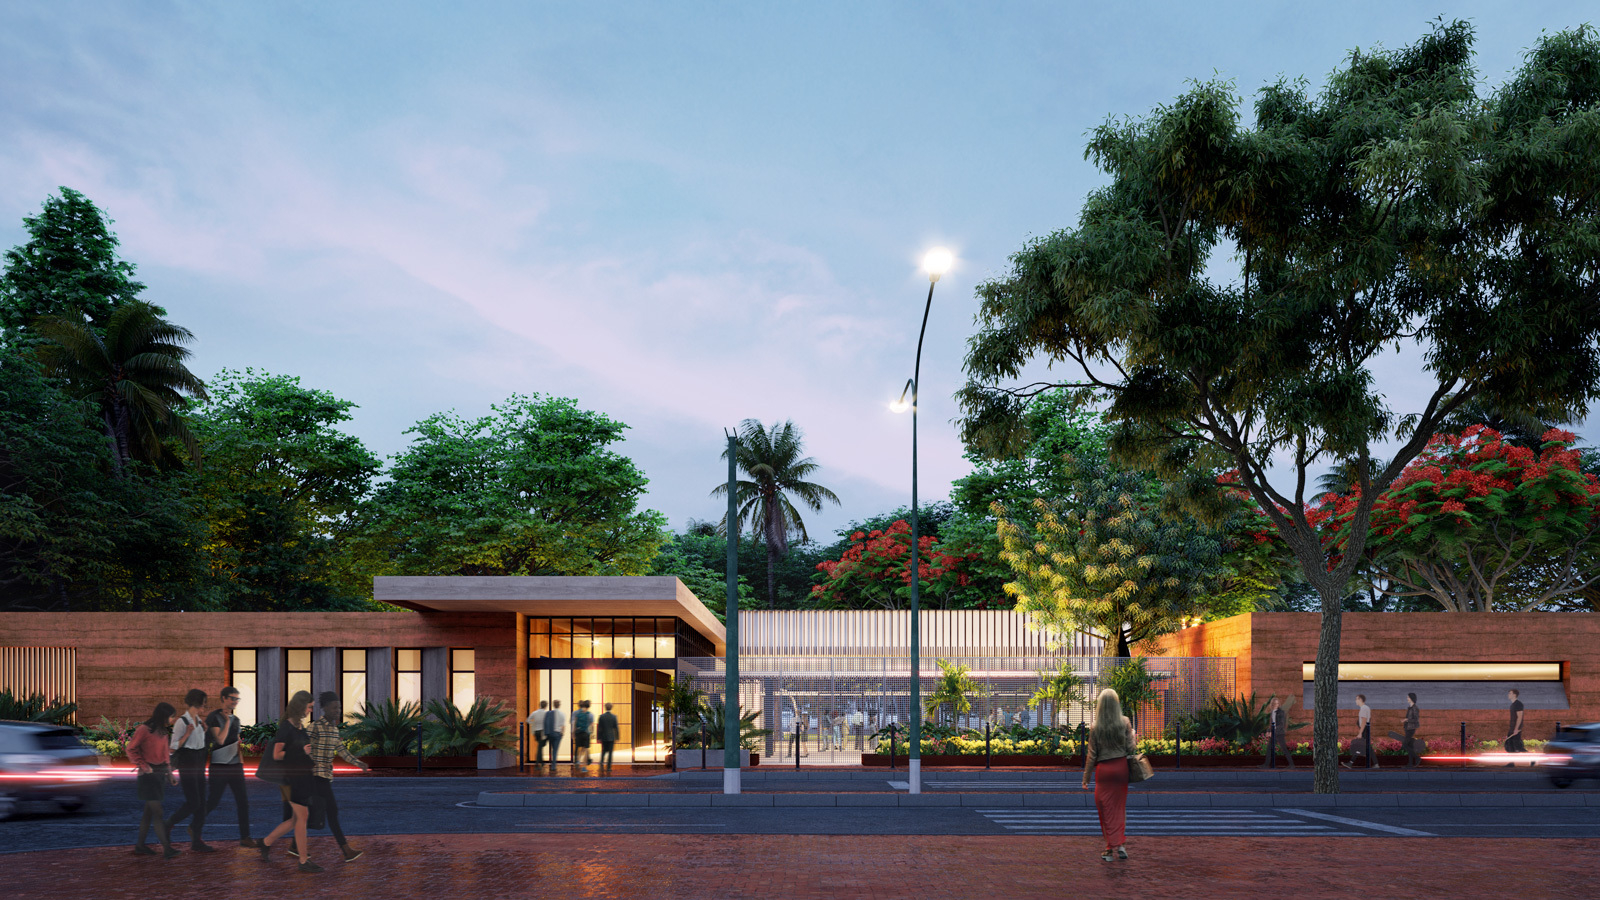
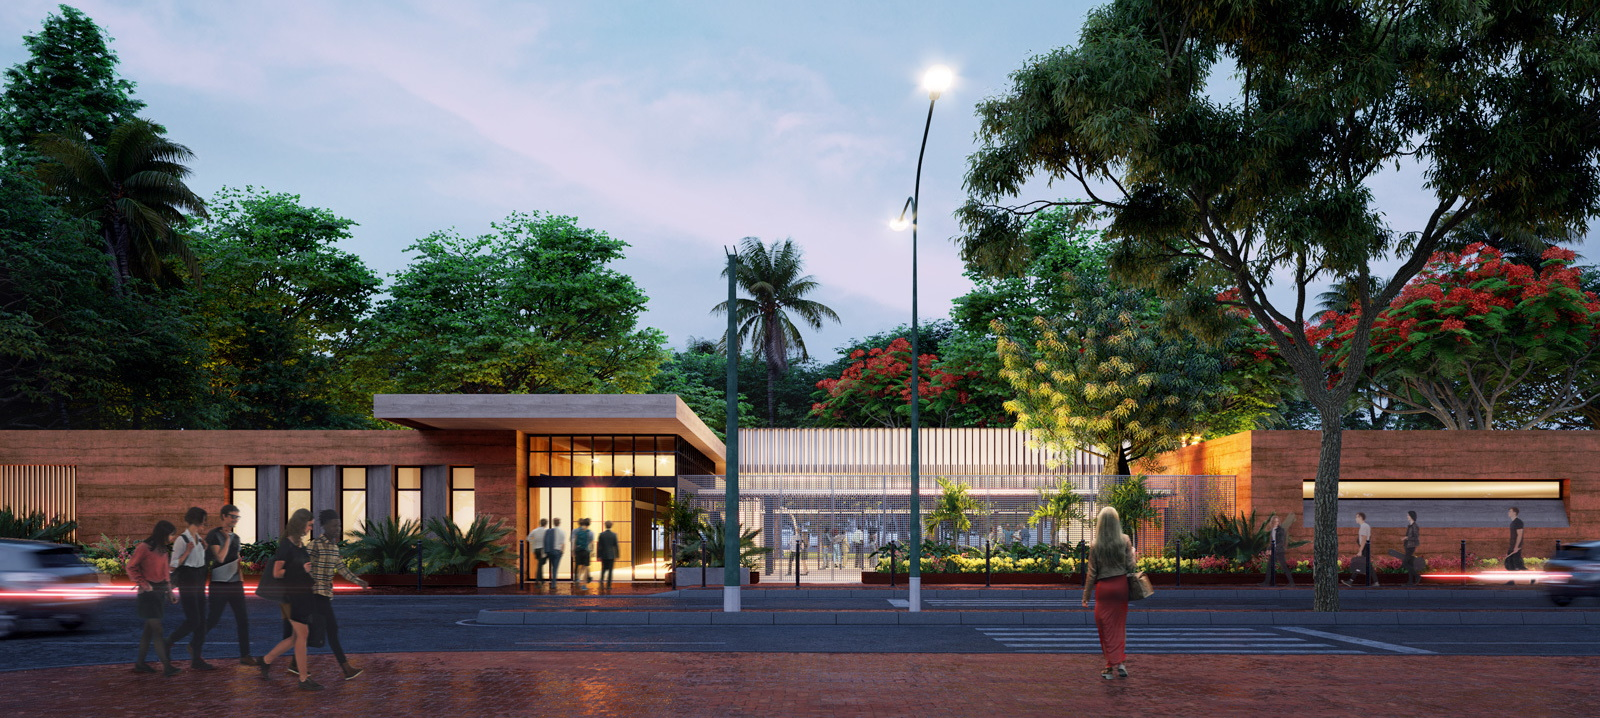
v1.2
- Fixade skeletett för footern
- Satte rätt proportioner på framsida bilden, samt la till lite text och färg under den.
- I princip klar med startsidan

diff --git a/index.html b/index.html
@@ -22,19 +22,44 @@
         </header>
 
         <main>
-            <div class="qoute">
-                <h2>"En dag utan ZooHUB är som en dag utan solsken"</h2>
+            <div class="top_main">
+                <div class="qoute">
+                    <h2>"En dag utan ZooHUB är som en dag utan solsken"</h2>
+                </div>
             </div>
 
-            <div class="info_bubble">
-                <h2>Pellentesque habitant morbi tristique senectus et netus et malesuada fames ac turpis egestas.</h2>
+            <div class="middle_main">
+                <h2>Vad är ZooHUB?</h2>
+                <p>Hello this is ein oaragraph</p>
             </div>
-
         </main>
 
         <footer>
+            <h2>ZooHUB™©</h2>
+            <div class="oppetider_footer">
+                <h4>Öppetider:</h4>
+                <ul>
+                    <li>Måndag-Fredag kl. 10:00-20:00</li>
+                    <li>Lördag kl. 11:00-18:00</li>
+                    <li>Söndag kl. 11:00-22:00</li>
+                </ul>
+            </div>
 
-            <h3>This is the footer</h3>
+            <div class="kontakt_footer">
+                <h4>Kontakt:</h4>
+                <ul>
+                    <li>address</li>
+                    <li>phone</li>
+                    <li>jadijadiajda</li>
+                    <li>mail</li>
+                </ul>
+            </div>
+
+            <div class="about_footer">
+                <h4>Om oss:</h4>
+                <p>vi ör bla bla bla startade år 58569. Sålde skit o grejer. Balblablablalbalbal. s</p>
+            </div>
+
         </footer>
     </div>
 </body>

diff --git a/css/style.css b/css/style.css
@@ -29,13 +29,35 @@ header {
 
 main {
     grid-area: mn;
+    background-color: rgb(106, 232, 139);
+}
+
+.top_main {
+    height: 70%;
     background-image: url("/img/diverse/thecafe.jpg");
+}
+
+.qoute {
+    display: flex;
+    flex-direction: column;
+    align-items: center;    
+}
+
+
+
+.middle_main {
+    display: flex;
+    flex-direction: column;
+    margin: 10px;
 
 }
 
 footer {
     grid-area: ft;
     display: flex;
+    flex-direction: row;
+    justify-content: space-evenly;
+    align-items: center;
     width: 100vw;
     background-color: rebeccapurple;
 }
@@ -47,17 +69,4 @@ footer {
 #logo_image {
     width: 300px;
     height: auto;
-}
-
-.qoute {
-    display: flex;
-    flex-direction: column;
-    align-items: center;
-    
-}
-
-.info_bubble {
-    width: 60vh;
-    height: 20vh;
-    background-image: url("/img/diverse/chatbubble.png");
 }
